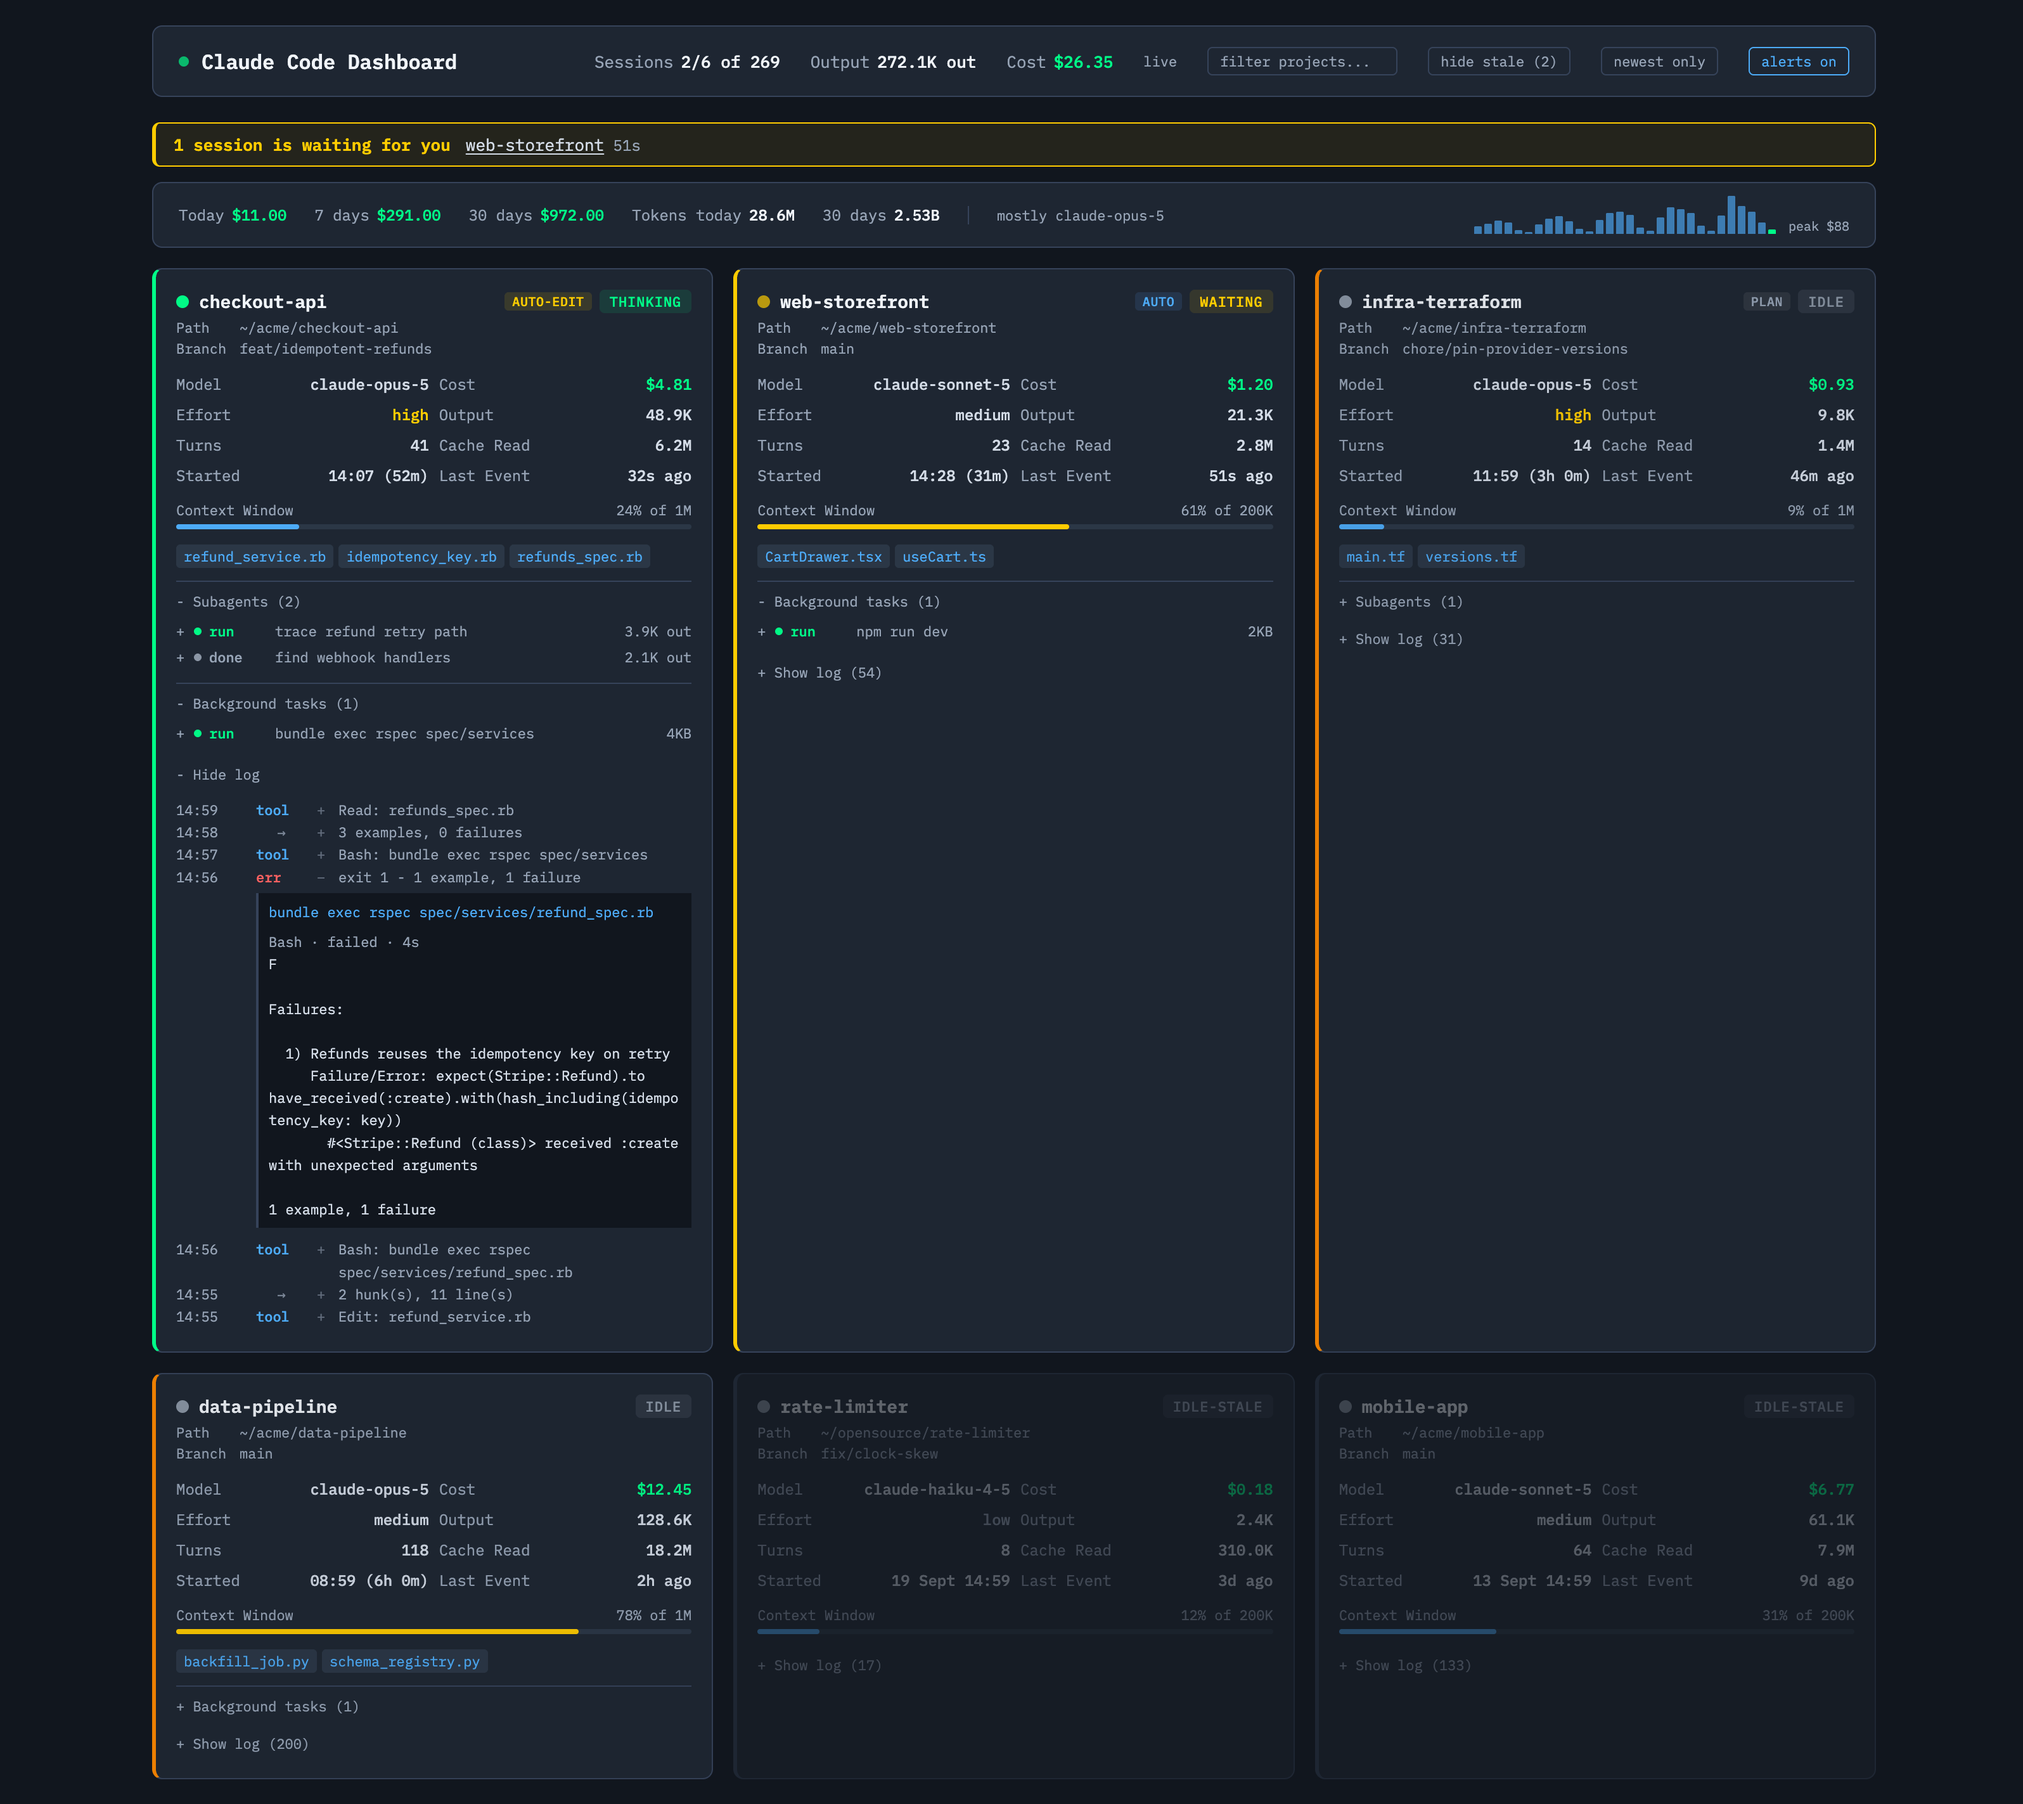
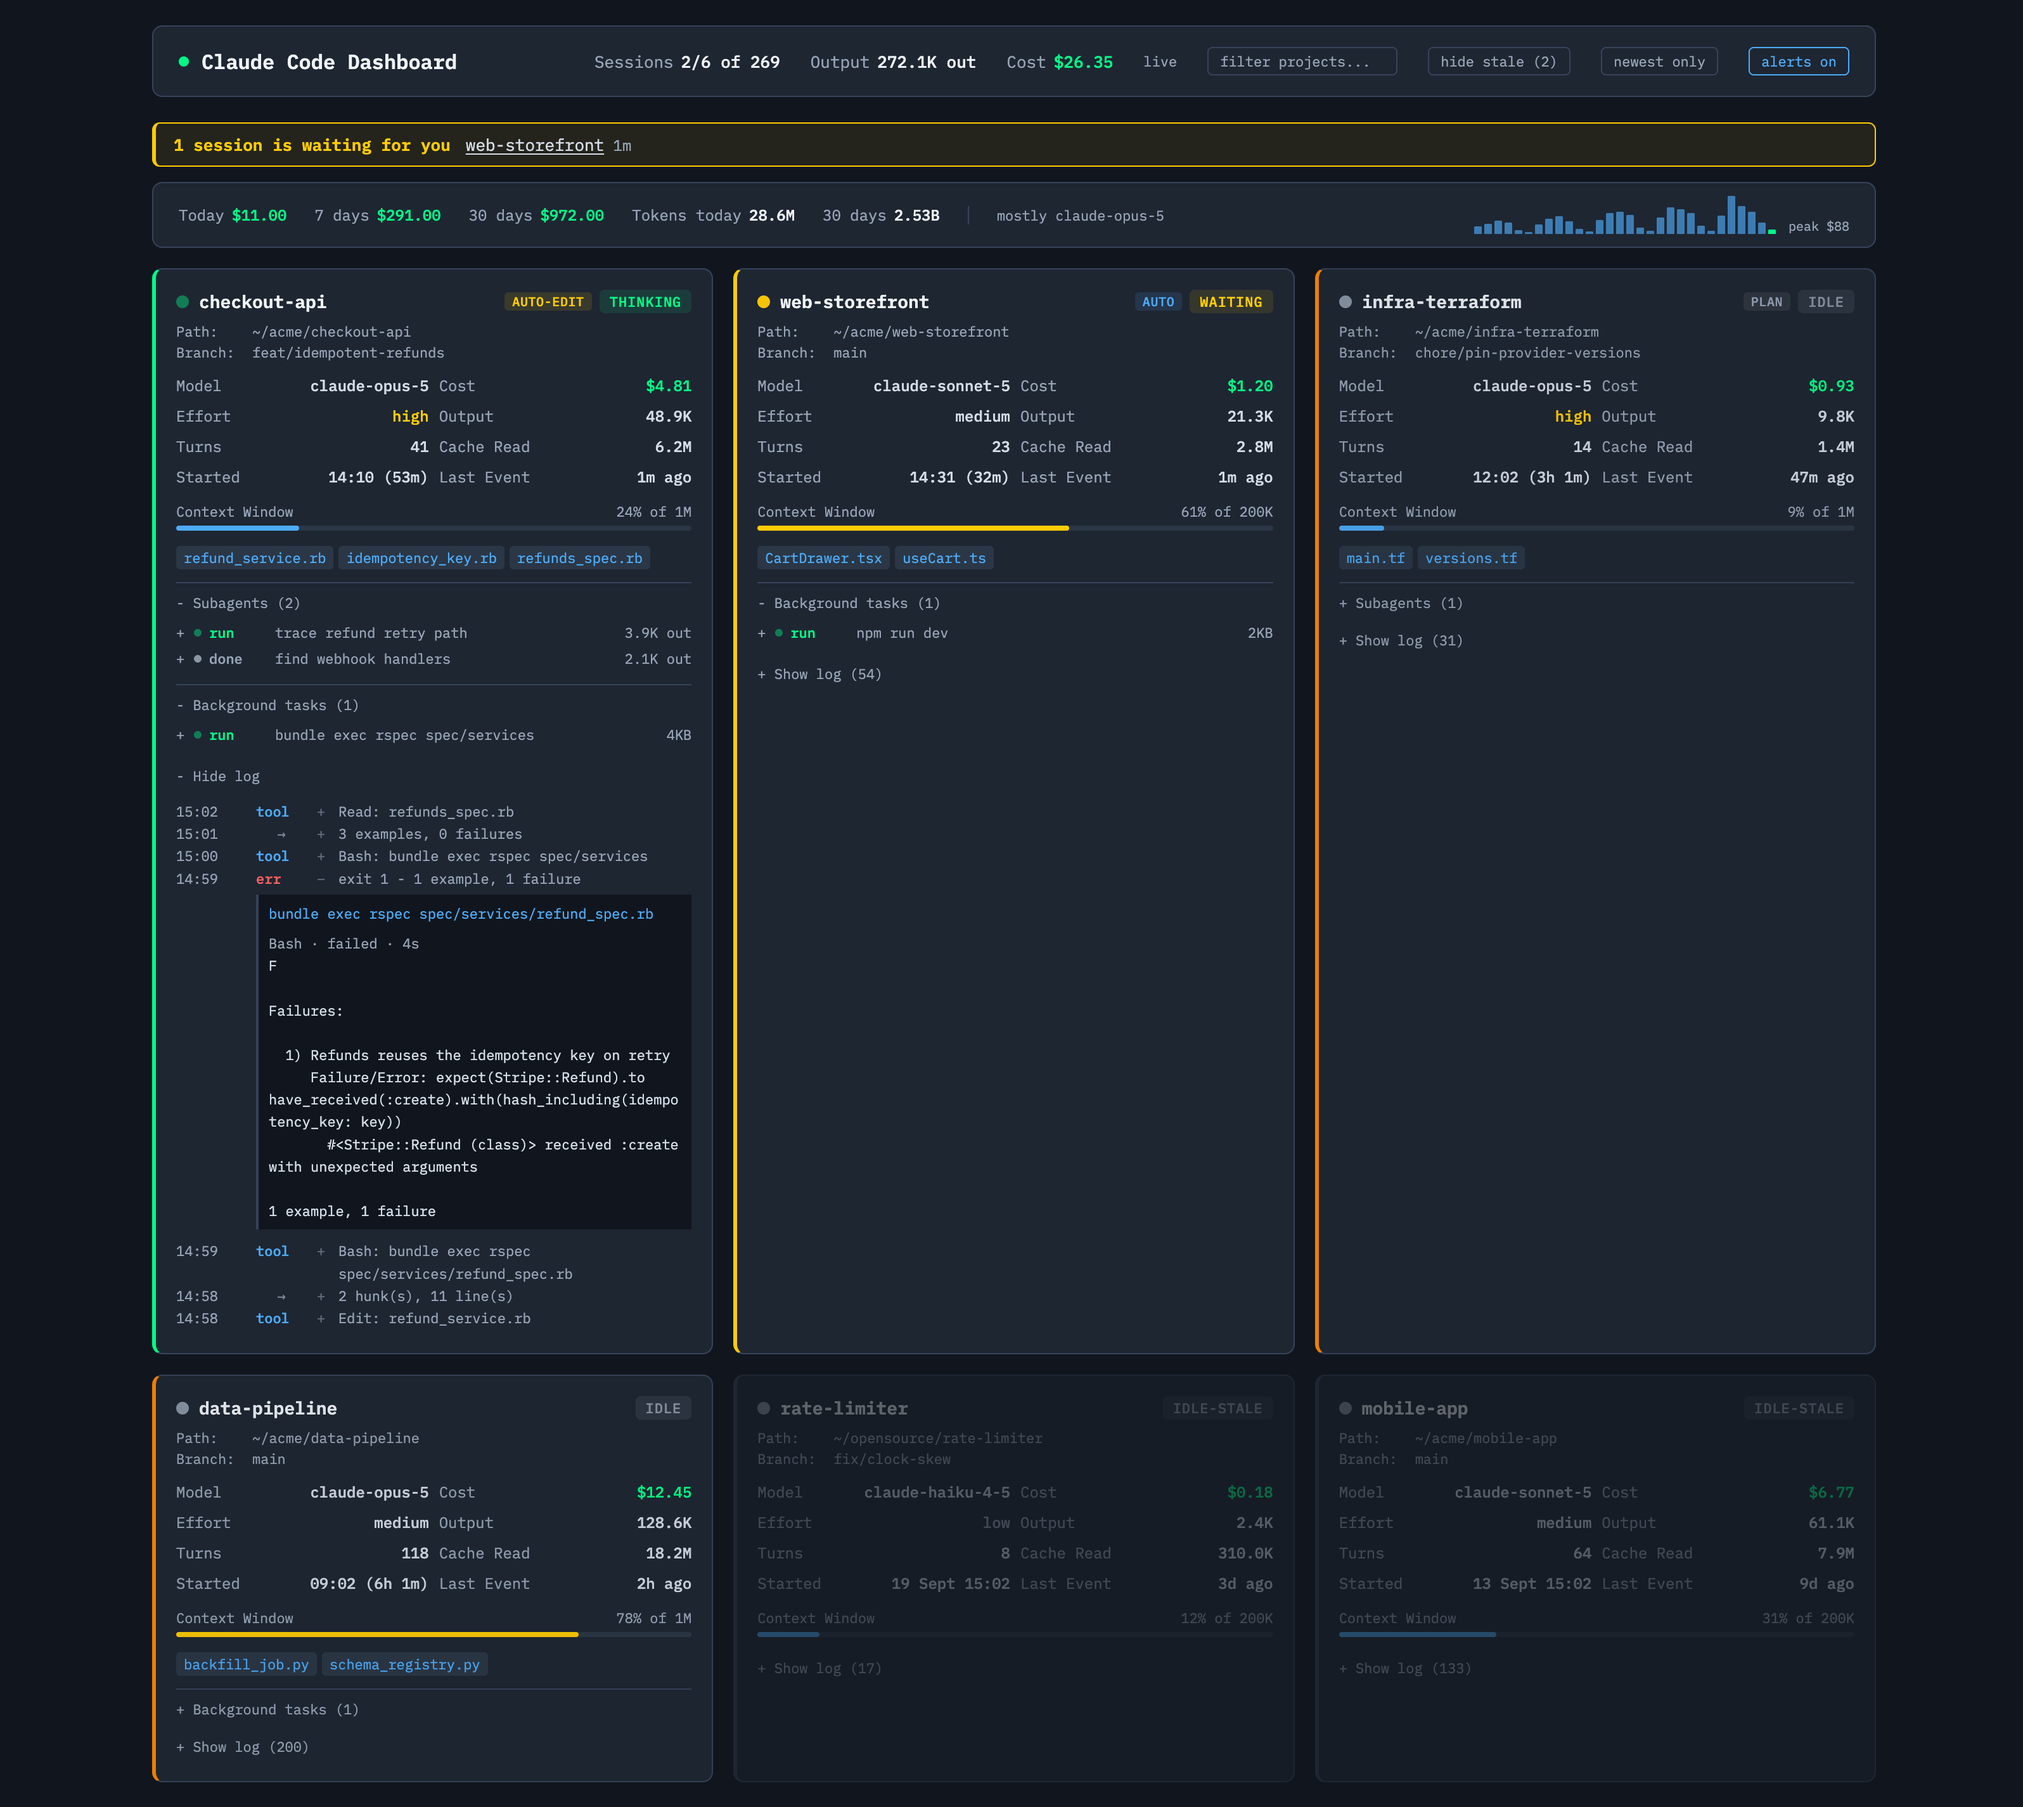
Give the path row the whole card, and a colon after each key
The path and branch sat inside the header flex, so they were confined to
the narrow column left beside the status badges - 347px of a 407px card,
and less on a card with three badges. They are now siblings of the header
rather than children, so a long path uses the full width before wrapping.

Keys read `Path:` and `Branch:`, which is what a key followed by a value
should look like.

The `~` shortening was already in place and stays: a path under the home
directory reads `~/projects/AXPINSOFT/axptime`. One outside it - a
different volume, a system directory - has nothing to shorten against and
is shown in full, which is the honest answer rather than a truncation
that hides where it is.

Claude-Session: https://claude.ai/code/session_01EvQQCyByDtyWJFQ2WQu6jQ

diff --git a/public/index.html b/public/index.html
@@ -536,17 +536,19 @@
     /* Git branch */
     /* Path and branch under the project name. Keys are dim and fixed-width so
        the two values line up and the labels do not compete with them. */
-    .card-sub { margin-top: 3px; }
+    .card-sub { margin-top: -6px; margin-bottom: 10px; }
     .sub-row {
       display: flex;
       gap: 8px;
       font-size: 11px;
       line-height: 1.5;
     }
-    .sub-key { color: var(--text-dim); flex-shrink: 0; min-width: 42px; }
+    .sub-key { color: var(--text-dim); flex-shrink: 0; min-width: 52px; }
     .sub-val {
       color: var(--text-dim);
       word-break: break-all;
+      flex: 1;
+      min-width: 0;
     }
     .card:hover .sub-val { color: var(--text); }
 
@@ -945,20 +947,6 @@
               e('span', { className: 'status-dot ' + st }),
               session.label || session.sessionId.substring(0, 8)
             ),
-            // The label is only the folder name, so the path goes here rather
-            // than living solely in a tooltip - a tooltip is no use on a phone
-            // and nobody hovers to find out where a project is. The branch was
-            // a bare name with nothing saying what it was.
-            e('div', { className: 'card-sub' },
-              session.cwd ? e('div', { className: 'sub-row' },
-                e('span', { className: 'sub-key' }, 'Path'),
-                e('span', { className: 'sub-val', title: session.cwd }, shortPath(session.cwd, homeDir))
-              ) : null,
-              session.gitBranch ? e('div', { className: 'sub-row' },
-                e('span', { className: 'sub-key' }, 'Branch'),
-                e('span', { className: 'sub-val' }, session.gitBranch)
-              ) : null
-            )
           ),
           e('div', { style: { display: 'flex', gap: '6px', alignItems: 'center' } },
             session.mode && session.mode !== 'normal'
@@ -968,6 +956,22 @@
             e('span', { className: 'card-status ' + st }, st)
           )
         ),
+
+        // Path and branch sit outside the header flex, so a long path uses the
+        // whole card instead of the narrow column left beside the badges. The
+        // label is only the folder name, so without this the path lived solely
+        // in a tooltip - no use on a phone, and nobody hovers to find out where
+        // a project is.
+        (session.cwd || session.gitBranch) ? e('div', { className: 'card-sub' },
+          session.cwd ? e('div', { className: 'sub-row' },
+            e('span', { className: 'sub-key' }, 'Path:'),
+            e('span', { className: 'sub-val', title: session.cwd }, shortPath(session.cwd, homeDir))
+          ) : null,
+          session.gitBranch ? e('div', { className: 'sub-row' },
+            e('span', { className: 'sub-key' }, 'Branch:'),
+            e('span', { className: 'sub-val' }, session.gitBranch)
+          ) : null
+        ) : null,
 
         // Meta grid. Two columns filled row by row, so the order here is
         // Model / Cost, Effort / Output, Turns / Cache Read, Started / Last
